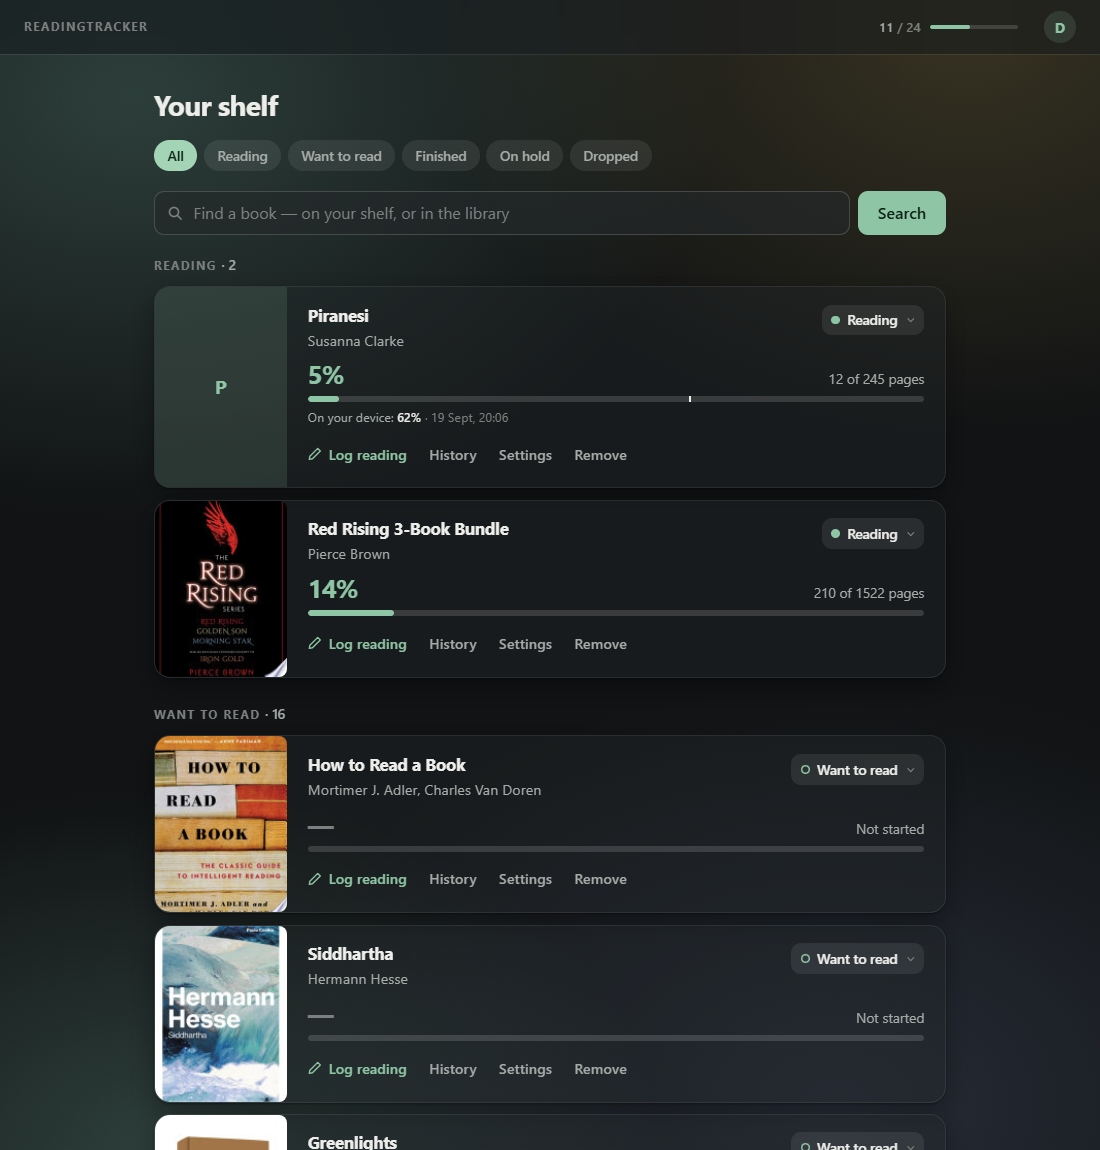
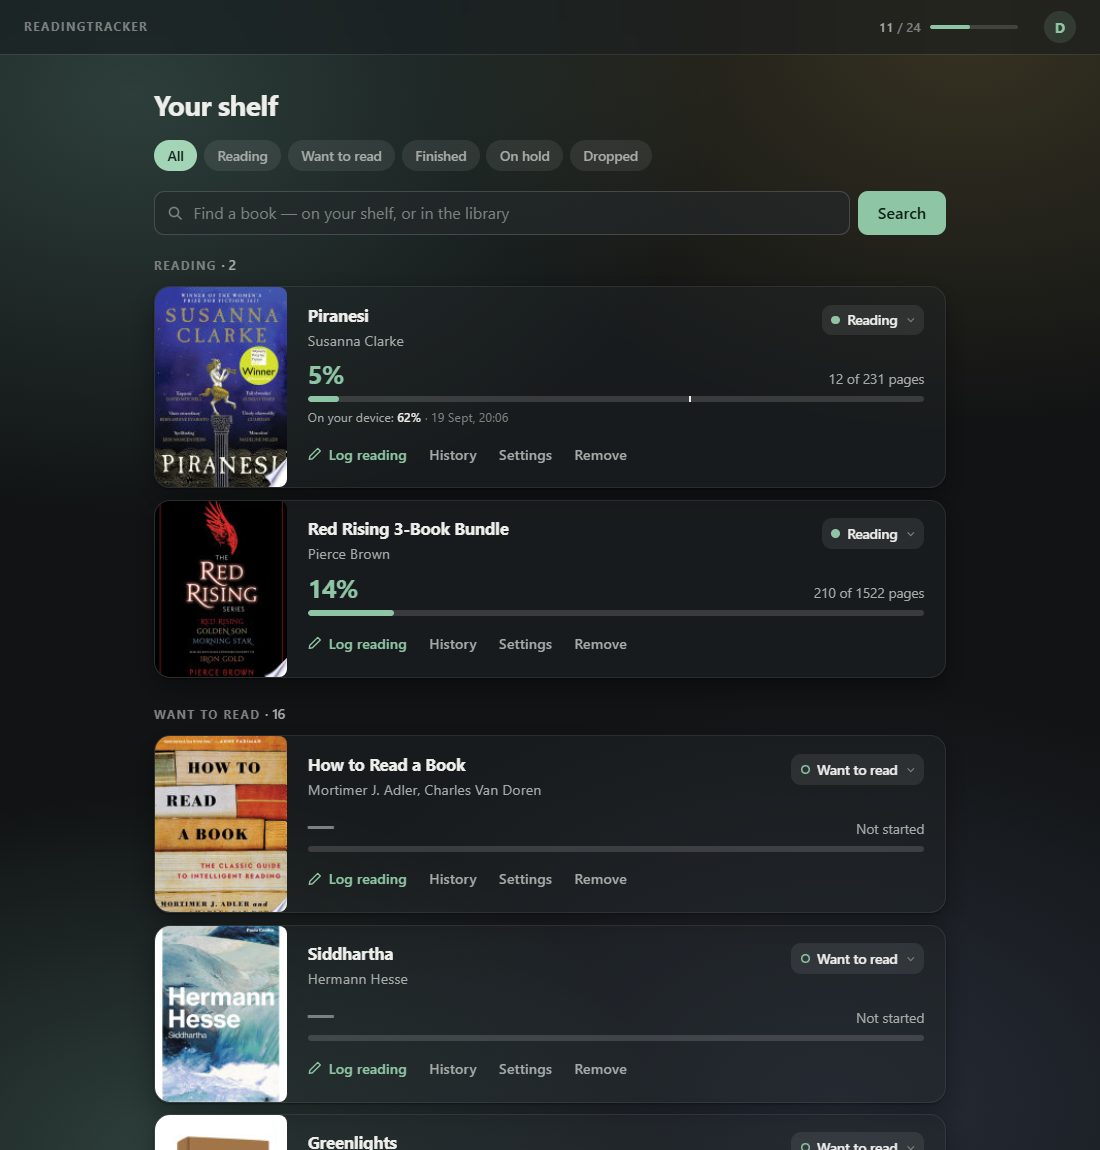
Every book in the pictures has its cover, and the swipe plays as WebP
Five books on the demo shelf had no cover and stood as a letter; each is
now on an edition that has one, and the shots that show them are retaken.
The goal's popover is taken where the Search button does not glow through
its glass. The two swipe recordings are animated WebP rather than GIF: the
covers' soft wash behind each card banded badly in GIF's 256 colours, and
the WebP is full colour at under half the size.

Changed region(s): [[0.1236, 0.2435, 0.2782, 0.4261]]

diff --git a/README.md b/README.md
@@ -28,7 +28,7 @@ The shelf, grouped by status with what is being read at the top, and the year's 
 
 Logging a session is one form on the card — say where you stopped — and the sessions behind the bar are a click away:
 
-![A shelf card with the Log reading form open: stopped at page 12 of 245 on a slider, logged for today, with a link to change the day or add the time it took](docs/screenshots/log-reading.png)
+![A shelf card with the Log reading form open: stopped at page 12 of 231 on a slider, logged for today, with a link to change the day or add the time it took](docs/screenshots/log-reading.png)
 
 ![The same card with its History open: 12 pages on Monday 21 Sept, with Correct and Delete](docs/screenshots/history.png)
 
@@ -44,12 +44,14 @@ A device token puts an e-reader on the shelf without a Google sign-in — the [K
 
 ![Import from Hardcover: 50 books in the file, counted by status, listed with their authors and finish dates](docs/screenshots/import.png)
 
-On a phone the status tabs become an underlined strip, and the shelf swipes through them. The list follows the finger and, let go far enough (or flicked), slides away while the next tab's list comes in from the other side; each tab gives the page a shade of its own. At the ends, where there is no tab to go to, the list gives only a little and springs back, as does a drag too short to mean anything:
+On a phone the status tabs become a strip, and the shelf swipes through them. The list follows the finger; let go far enough, or flick, and the next tab's list slides in from the other side, the page taking on that tab's shade. At either end, and on a drag too short to count, the list gives a little and springs back:
 
 <p>
-  <img src="docs/screenshots/swipe-tabs.gif" width="300" alt="Swiping on a phone: Reading to Want to read to Finished and back to All, each list sliding out with the finger and the next sliding in, the background's shade shifting with the tab" />
-  <img src="docs/screenshots/swipe-edge.gif" width="300" alt="The edges of the swipe: dragging right on All, the first tab, holds the list back and it springs home; a short drag left springs back too; a longer one turns to Reading" />
+  <img src="docs/screenshots/swipe-tabs.webp" width="300" alt="Swiping on a phone: Reading to Want to read to Finished and back to All, each list sliding out with the finger and the next sliding in, the background's shade shifting with the tab" />
+  <img src="docs/screenshots/swipe-edge.webp" width="300" alt="The edges of the swipe: dragging right on All, the first tab, holds the list back and it springs home; a short drag left springs back too; a longer one turns to Reading" />
 </p>
+
+The phone at rest, and the account menu:
 
 <p>
   <img src="docs/screenshots/phone.png" width="300" alt="The shelf on a phone, on the Reading tab: the same cards in one column, with a round add button in the corner" />
